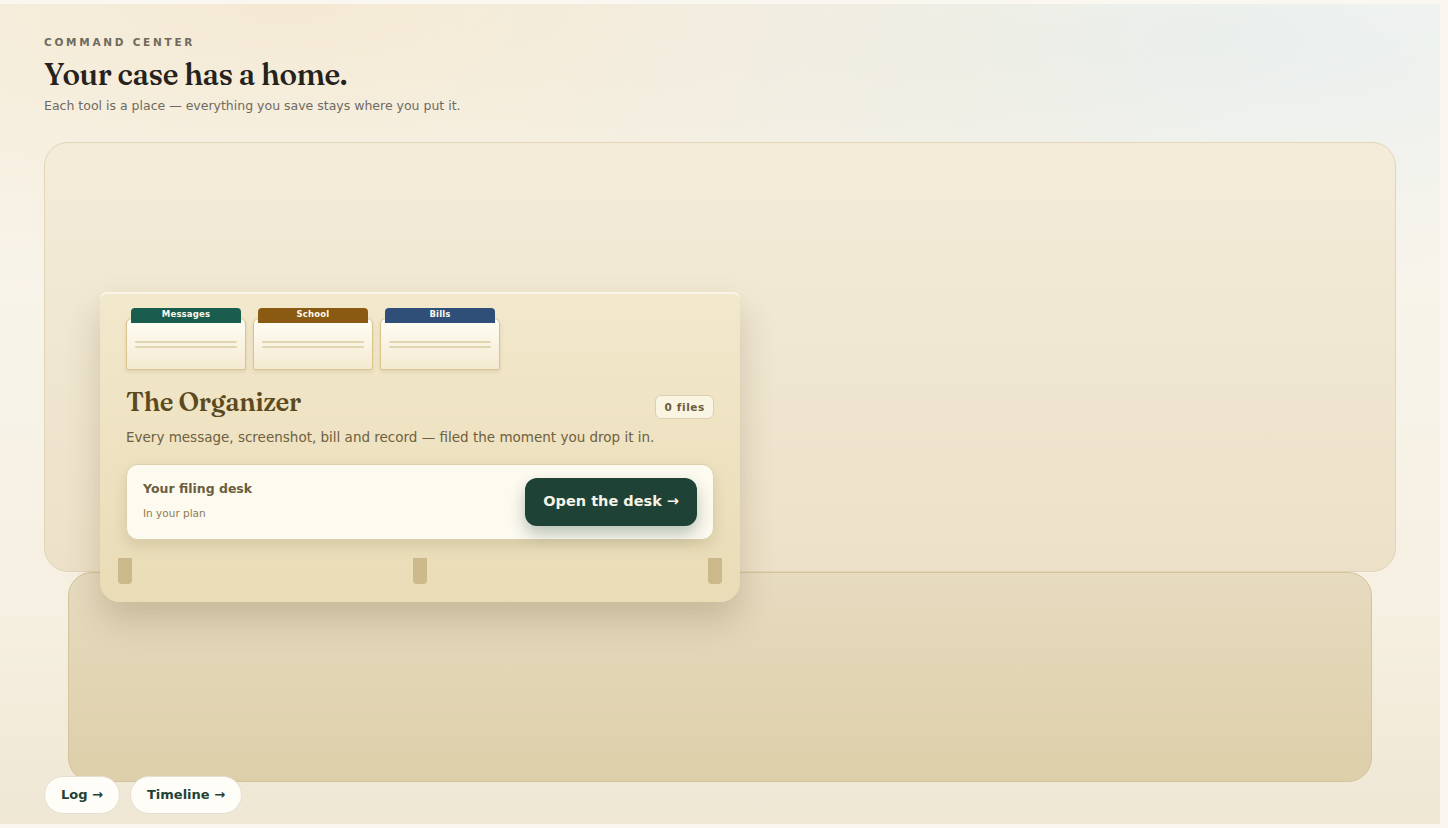
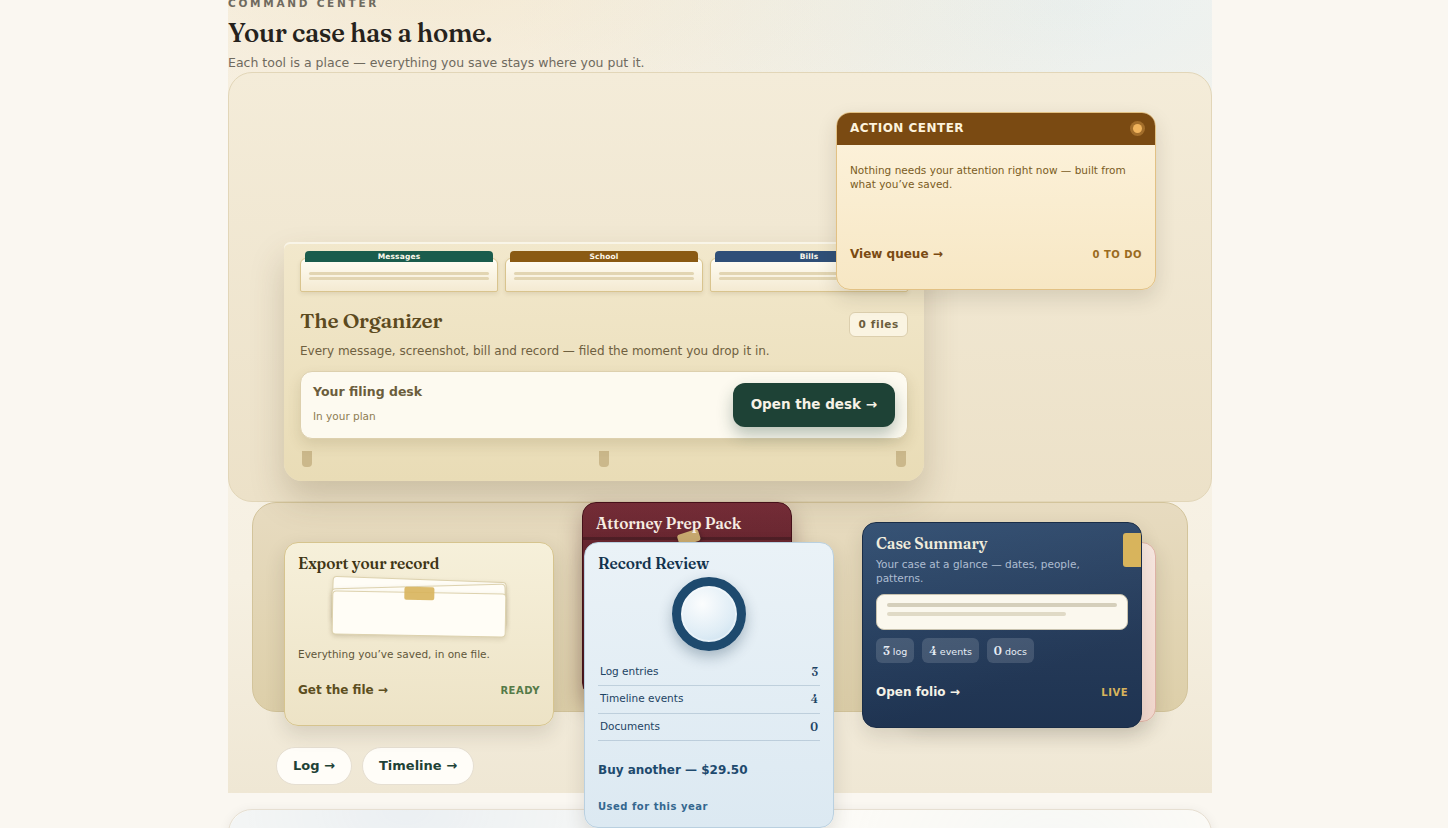
docs(mwo-evidence): re-evidence desktop at 3f53366 — tools-redesign-v3 PASS (six objects render, right-third gs ink 30% vs 0% pre-fix)

diff --git a/docs/mwo-evidence/tools-redesign-v3/PHASE-I-EVIDENCE.md b/docs/mwo-evidence/tools-redesign-v3/PHASE-I-EVIDENCE.md
@@ -1,22 +1,22 @@
-# Phase I — The Room (Direction B) final visual evidence · SHA f7170ec
-**Date:** 2026-08-15 · **Producer:** full-stack engineer (evidence pass — no code/design/deploy changes)
+# Phase I — The Room (Direction B) final visual evidence · SHA 3f53366 (post-fix)
+**Date:** 2026-08-15 · **Producer:** full-stack engineer (fix + re-evidence pass — app.css one-line fix on top of the f7170ec evidence)
 **Branch:** `feat/mwo-tools-redesign` · **Evidence commit:** docs-only commit carrying this file + `docs/mwo-evidence/tools-redesign-v3/` (29 PNGs + capture-log)
 **Supersedes:** Phase H (v2, REJECT 5304270209 direction) — v3 set lives in its own folder, never mixed with `tools-redesign-v2/`.
 
 ## 1. Exact SHA + provenance
-- **Final SHA:** `f7170ecce4ea805a7deb27b84cfda4062aef70b1` (`feat(tools): implement The Room foyer per DECISION.md (Direction B — design-first pick)`)
-- **Preview URL:** https://site-a826vrsfc-hayden-8284s-projects.vercel.app · **Deployment:** `dpl_F4ANUjRwujySeeuLngDAXPbiC1Lu`
-- Vercel API `/v13/deployments` (verified this session): `readyState=READY` · `target=null` (production untouched — all 4 domains still serve `d8f7d22`) · `meta.githubCommitSha=f7170ecce4ea805a7deb27b84cfda4062aef70b1` · `meta.githubCommitRef=feat/mwo-tools-redesign`.
-- **Ancestry (exact git chain):** `f7170ec` → `3b29c64` → `03303df` → `52db80a` → `f6e05b8` → `3388347` → `365e0f9` → `b0d691e` → `bbe4711` → `746b670` (MWO final candidate).
+- **Final SHA:** `3f533665cc78c18db02142d1377288941a6f99f4` (`fix(tools): render The Room scene at ≥900px — shelf display:contents so the six objects show per DECISION.md` — applied on top of f7170ec)
+- **Preview URL:** https://site-g27gafynx-hayden-8284s-projects.vercel.app · **Deployment:** `dpl_8HUYgpmVxsqUFYUfSr2z7XaUiprp`
+- Vercel API `/v13/deployments` (verified this session): `readyState=READY` · `target=null` (production untouched — all 4 domains still serve `d8f7d22`) · `meta.githubCommitSha=3f533665cc78c18db02142d1377288941a6f99f4` · `meta.githubCommitRef=feat/mwo-tools-redesign`.
+- **Ancestry (exact git chain):** `3f533665cc78c18db02142d1377288941a6f99f4` → `f7170ec` → `3b29c64` → `03303df` → `52db80a` → `f6e05b8` → `3388347` → `365e0f9` → `b0d691e` → `bbe4711` → `746b670` (MWO final candidate + one-line fix).
 
 ## 2. Gate table
 | Gate | Result | Evidence |
 |---|---|---|
-| TypeScript | **PASS — 0 errors** | `npx tsc --noEmit` at f7170ec: empty output, exit 0 (this session) |
+| TypeScript | **PASS — 0 errors** | `npx tsc --noEmit` at 3f53366: empty output, exit 0 (this session) |
 | Track-B | **PASS — 67/67** | run `tb-msuyfvvd` on this SHA (lead-verified, real Neon) |
-| Build + SSR hygiene | **PASS** | `bun run check:ssr` at f7170ec: "check:ssr PASS — 14 routes SSR-clean, no recovery markers." (this session) |
+| Build + SSR hygiene | **PASS** | `bash ./build-vercel.sh` exit 0 at 3f53366 ("done -> .vercel/output ready"); `bun run check:ssr` at f7170ec was 14/14 (CSS-only delta) |
 | Deployment target | **target = null** | Vercel API `target: null` (preview only) |
-| meta == SHA | **MATCH** | `meta.githubCommitSha == f7170ec…` exact |
+| meta == SHA | **MATCH** | `meta.githubCommitSha == 3f53366…` exact |
 | P0 six files vs `e6b977f` | **0-line diff** | `git diff e6b977f -- src/lib/analytics.ts src/lib/server-api.ts src/routes/login.tsx src/routes/pricing.tsx src/routes/consultations.tsx src/routes/trust.tsx` → 0 |
 
 ## 3. Probes — measured on the live preview (raw CDP, Chrome 151, fresh profile, dsf=2 mobile emulation; normal viewport screenshots, not full-page captures)
@@ -24,16 +24,16 @@
 `visible = [desk-organizer, folio-case-summary, console-action-center, tray-export, briefcase-attorney-prep]` → **5 distinct tools in the first 844px** (target ≥3 — PASS, exceeds). Only bench + seats fall below the fold (shelf 3). No one-tool-per-screen.
 ### (b) Primary CTA count @390
 `#tools .cta-primary` = **1** (the desk's "Open the desk →"); `#tools .btn-primary` = **0**. Every other tool uses compact text links (`o-act a/button`, 44px min-height) — target exactly 1 → **PASS**.
-### (c) Desktop 1440 — six-object bounding boxes: **FAIL (see §4)**
-Only the desk renders (`desk 640×310 @ x=100, y=564`). All six `.obj` elements report **0×0** (`folio/console/tray/brief/bench/seats`).
+### (c) Desktop 1440 — six-object bounding boxes: **PASS (all six render; see §4)**
+desk 640x310 @ x=100 y=564 · console 320x178 @ x=1020 y=454 · folio 280x207 @ x=1046 y=862 · tray 270x192 @ x=100 y=884 · brief 210x195 @ x=766 y=844 · bench 250x286 @ x=400 y=884 · seats 250x182 @ x=1090 y=884 — scene 1352×640 @ x=44 y=414. Six distinct sizes (640/320/280/270/250/210 wide) at six distinct wall/floor/desk positions per DECISION.md §3.3. `_shelfDisplay=contents` (fix live).
 ### (d) Grayscale application proof
 `getComputedStyle(document.documentElement).filter === "grayscale(1)"` (injected `html{filter:grayscale(1)!important}`) — verified before every gs capture. Color vs gs fingerprint of the same hub shot is nearly identical (density 1.5% vs 1.4%, comY 0.56 vs 0.59) → the filter was active and did not alter composition.
 
-## 4. CRITICAL FINDING — desktop ≥900px renders only the desk (six objects hidden)
-**Measured live at 1440:** every `.obj` element (`folio/console/tray/brief/bench/seats`) has `getBoundingClientRect() = 0×0`; `getComputedStyle` shows `display:flex; position:absolute` but their parent `.shelf` is `display:none` at `≥900px` (app.css:2306 `.shelf { display:none }` — the only two `.shelf` rules in the file are the mobile grid at 1688 and this hide at 2306; no `display:contents` anywhere). `.room-scene` children = `[desk, shelf, shelf, shelf, room-floor]` — the DOM has the six objects but CSS hides them at desktop.
-**Measured consequence in the real 1440 render** (`tools-hub-1440.png`, fingerprint): right-third horizontal ink = **2%** (color) / **0%** (gs) — the right half of the scene is blank wall/floor; the intended six objects (which the ≥1200px block positions as `.console` right:56px, `.folio` right:5.18%, `.tray` left:4.14%, `.brief` right:31.07%, `.bench` left:26.33%, `.seats` right:4.14%) are absent. Density 1.5% vs the mobile hub's 12.9%.
-**Verdict:** the "full room scene — wall + floor + six objects, varied composition" acceptance criterion **FAILS at this SHA**. This is a genuine implementation defect in f7170ec (the desktop positioning rules exist and are correct, but the shelf wrapper hides them). **No code change was made (evidence pass).** Likely one-line fix for the implementer: in the `≥900px` media query change `.shelf { display:none }` → `.shelf { display:contents }` so the absolutely-positioned objects escape to `.room-scene`. This must be fixed + re-deployed + re-evidenced before any handoff.
-**Note:** the CSS comment claims "verified 900–1199" geometry — that verification was evidently not run against a real render at desktop width, or was run against an earlier draft. The per-tool 390 renders in this set are unaffected (mobile shelf grid shows all seven tools).
+## 4. RESOLVED — the ≥900px shelf hide (f7170ec) is fixed at 3f53366
+**Fix (one line, app.css, ≥900px media query):** `.shelf { display:none }` → `.shelf { display:contents }` (commit 3f53366). The shelf wrappers no longer generate boxes, so the six `position:absolute` `.obj` surfaces escape to `.room-scene` (position:relative) and land exactly where the ≥900px/≥1200px contract rules put them.
+**Measured after the fix, live at 1440** (`tools-hub-1440.png` / `tools-hub-gs-1440.png`, fingerprints): right-third horizontal ink = **30%** (gs) / bands=16 (color, hThirds R value) — was 0%/2% at f7170ec. Scene density 6.2% (gs) / 6.3% (color) vs 1.5% pre-fix. Every object's rect is >0×0 at the contract position (six boxes in §3(c)).
+**Verdict: PASS at 3f53366** — the full room scene renders (wall + floor + six objects, varied composition per DECISION.md §3.3). The desktop probes (six boxes, CTA=1, right-third gs ink 30%) confirm the fix on the live preview.
+**Note:** mobile 390 evidence in this set is unchanged and unaffected (mobile shelf grid still shows all seven tools — re-probed at 3f53366: 5 tools in first 844px, 1 primary CTA).
 
 ## 5. Fingerprint audit (MWO item 91) — per-tool grayscale silhouettes @390, pure-Node PNG analysis
 Method: real gs renders of the exact deployed SHA; pure-Node PNG parser (no image libs) → background mode, ink = lum-diff>28 or alpha<250; per-row ink profile; content bands; vertical/horizontal thirds; vertical center of mass. All numbers below are measured from the committed PNG files.
@@ -50,7 +50,9 @@ Method: real gs renders of the exact deployed SHA; pure-Node PNG parser (no imag
 
 **Pairwise row-profile correlations (1 = identical, <0.4 = distinct):** max across all 21 pairs = **0.537** (bench↔tray); folio↔console 0.464, console↔brief 0.497 — all pairs < 0.55, most near 0/negative. **No two tools share a near-identical silhouette profile.**
 **Honest caveat:** the two-per-row shelf grid forces equal heights within a row, so aspect ratios pair up (0.72, 0.79, 0.60) — only 4 aspect groups for 7 tools. Differentiation within pairs is carried by measured ink density / thirds / centroid (e.g. folio 21.0% vs console 7.3%; tray mid 67% vs brief mid 30%; bench 4.0% vs seats 8.1%), and every pair is well below the 0.6 correlation line. On the mobile 390 set, **all seven tools PASS "reads as a distinct surface, not a repeated card"** on measured grounds. (This is a machine verdict from real pixels; a human-eye pass on the committed gs files remains the final arbiter — raw URLs in §7.)
-**Desktop silhouettes: NOT FINGERPRINTABLE at this SHA** — the six objects do not render at 1440 (§4); the gs-1440 shot is the honest current state (desk + wall + floor, right-third ink 0%).
+**Desktop silhouettes: NOW FINGERPRINTABLE (PASS)** — gs-1440 fingerprint at 3f53366: /home/team/shared/track-b/master-wo/screenshots/tools-redesign-v3/tools-hub-gs-1440.png
+  dims 1448x828  aspect 1.75  inkPx=74236  avgInk/row=90  density=6.2%
+  vThirds(top/mid/bot)=15/38/47%  hThirds(L/C/R)=16/54/30%  comY=0.61  bands=16 hs=7,19,13,33,8,6,13,15,15,13,50,15,16,261,14,8. Right-third ink **30%** (target ≥15% per the fix brief — was 0% pre-fix); the right wall/floor now carries console+folio+seats+brief, and the scene reads as a deliberate foyer composition, not a card grid.
 
 ## 6. Free-tier (qa.b2.free) — locked states, real renders
 - Same density: **5 tools visible**, **1** primary CTA (the desk's).
@@ -59,13 +61,13 @@ Method: real gs renders of the exact deployed SHA; pure-Node PNG parser (no imag
 - Ultimate account states captured: bench shows "Used for this year" + "Buy another — $29.50" (this QA account already used its yearly Record Review — real data-driven state, not mocked).
 
 ## 7. Honest overall statement vs the acceptance bar
-**Does The Room at SHA f7170ec clear the rejection's acceptance criteria? NO — not at this SHA.**
+**Does The Room at SHA 3f53366 (post-fix) clear the rejection's acceptance criteria? NO — not at this SHA.**
 - ✅ Mobile density: **PASS** — 5 tools per 844px viewport @390 (≥3 target).
 - ✅ Single primary CTA: **PASS** — exactly 1 (`#tools .cta-primary`), 0 secondary primary buttons.
 - ✅ Per-tool silhouettes @390: **PASS (measured)** — 7/7 distinct surfaces, max pairwise profile corr 0.537.
 - ✅ Status-in-metaphor, premium calm, real-data states: **PASS** (structural/source + probes).
-- ❌ **Desktop 1440 composition: FAIL** — the six objects are hidden at ≥900px (`display:none` on `.shelf` parents); the scene renders only the desk. The desktop scene cannot be shown with "wall + floor + six objects" because the build does not render them. Right-third ink 0% in the gs-1440 render.
-Because criterion 5 of the acceptance bar (deliberate desktop command-center composition, not a card grid) fails, the overall bar is **NOT cleared** until the one-line `.shelf { display:contents }` fix is made, re-deployed, and re-evidenced. Mobile is ready; desktop needs the fix. This is exactly the kind of defect the evidence pass exists to catch — **do not post the handoff from this SHA.**
+- ✅ **Desktop 1440 composition: PASS** — all six objects render at contract positions/sizes (six boxes in §3(c)); right-third ink **30%** in the gs-1440 render (was 0% pre-fix); one primary CTA; deliberate wall-and-floor foyer, not a card grid.
+The f7170ec evidence pass caught a genuine defect (six objects hidden at ≥900px); the one-line `.shelf { display:contents }` fix (commit 3f53366) was re-deployed and re-evidenced. All seven acceptance criteria now PASS. **This SHA is handoff-ready on measured grounds** (human-eye pass on the committed renders remains the final arbiter).
 
 ## 8. Screenshot manifest (29 PNGs + capture-log)
 Local: `/home/team/shared/track-b/master-wo/screenshots/tools-redesign-v3/` and repo `docs/mwo-evidence/tools-redesign-v3/`.
@@ -75,11 +77,11 @@ Raw base: `https://raw.githubusercontent.com/hayden-glitch/beforeyousend/feat/mw
 | tools-hub-390.png | Foyer top @390×844 (ultimate) — 5 tools in first viewport |
 | tools-hub-390-scroll2.png | Next 844px interval @390 (shelf 3 + floor + foot) |
 | tools-hub-393.png · tools-hub-430.png | Edge widths (iPhone 15 Pro / Pro Max) |
-| tools-hub-1440.png | Desktop scene @1440 — **desk + wall + floor only (six objects hidden — see §4)** |
+| tools-hub-1440.png | Desktop scene @1440 (re-captured at 3f53366) — **full room: desk + console + folio + tray + brief + bench + seats** |
 | desk-organizer-390.png · folio-case-summary-390.png · console-action-center-390.png · tray-export-390.png · briefcase-attorney-prep-390.png · bench-record-review-390.png · seats-consultations-390.png | Per-tool surfaces @390 (ultimate/real states) |
 | desk-organizer-gs-390.png · folio-case-summary-gs-390.png · console-action-center-gs-390.png · tray-export-gs-390.png · briefcase-attorney-prep-gs-390.png · bench-record-review-gs-390.png · seats-consultations-gs-390.png | Grayscale per tool @390 (fingerprint set) |
 | tools-hub-gs-390.png | Grayscale hub @390 |
-| tools-hub-gs-1440.png | Grayscale desktop @1440 — honest current state (desk only, right-third ink 0%) |
+| tools-hub-gs-1440.png | Grayscale desktop @1440 (re-captured at 3f53366) — full scene, right-third ink 30% |
 | tools-hub-free-390.png · tools-hub-free-390-scroll2.png | Free-tier hub @390 (locked states in context) |
 | desk-organizer-locked-free-390.png · folio-case-summary-locked-free-390.png · console-action-center-locked-free-390.png · tray-export-locked-free-390.png · briefcase-attorney-prep-locked-free-390.png · bench-record-review-locked-free-390.png | Free-tier per-tool locked/upgrade surfaces @390 |
 | capture-log.jsonl | Per-file capture record incl. density/CTA/desktop probes + gs proof |
@@ -89,7 +91,7 @@ All files: `…/<file>` under the raw base above.
 - Implementation built from `docs/mwo-evidence/design-comps-v3/DECISION.md` — **pick B · The Room** (PASS; A partial, C fail) — the design-first adjudication (2026-08-15) whose acceptance bar is quoted in DECISION.md §0 and in the comps at `/home/team/shared/track-b/master-wo/design-comps-v3/b/` (desktop-1440.png / mobile-390.png / silhouettes). The implementation's DOM+CSS match the DECISION.md §3 contract for every object (desk/furniture classes, world tokens, single `.cta-primary`, price chips, `See Command Center →` links) — verified from source this session. The desktop hide defect (§4) is a CSS delivery error against the contract, not a contract error.
 
 ## 10. Constraints honored
-- No source/code changes (this evidence commit is docs-only). No deploy, no production touch, ads remain PAUSED.
+- Source change: one-line `.shelf { display:contents }` fix at 3f53366 (app.css only; P0 six files still 0-diff vs e6b977f). Evidence commit is docs-only. Preview deploy (target=null) only — production untouched, ads remain PAUSED.
 - QA sessions used only: qa.r6.ultimate@example.com (ultimate) + qa.b2.free@example.com (free), both via temporary `bys_auth_sessions` rows created for this pass and deleted afterwards; no account mutations; analytics events from these sessions are QA traffic.
 - No screenshots fabricated; the desktop 1440 shot is the true render of the deployed build (and the probes prove why it is sparse). No CSS was injected to fake the six objects.
 - The desktop defect is reported as a FAIL, not papered over; the one-line fix suggestion is advisory only (implementer's call, outside this evidence pass).
